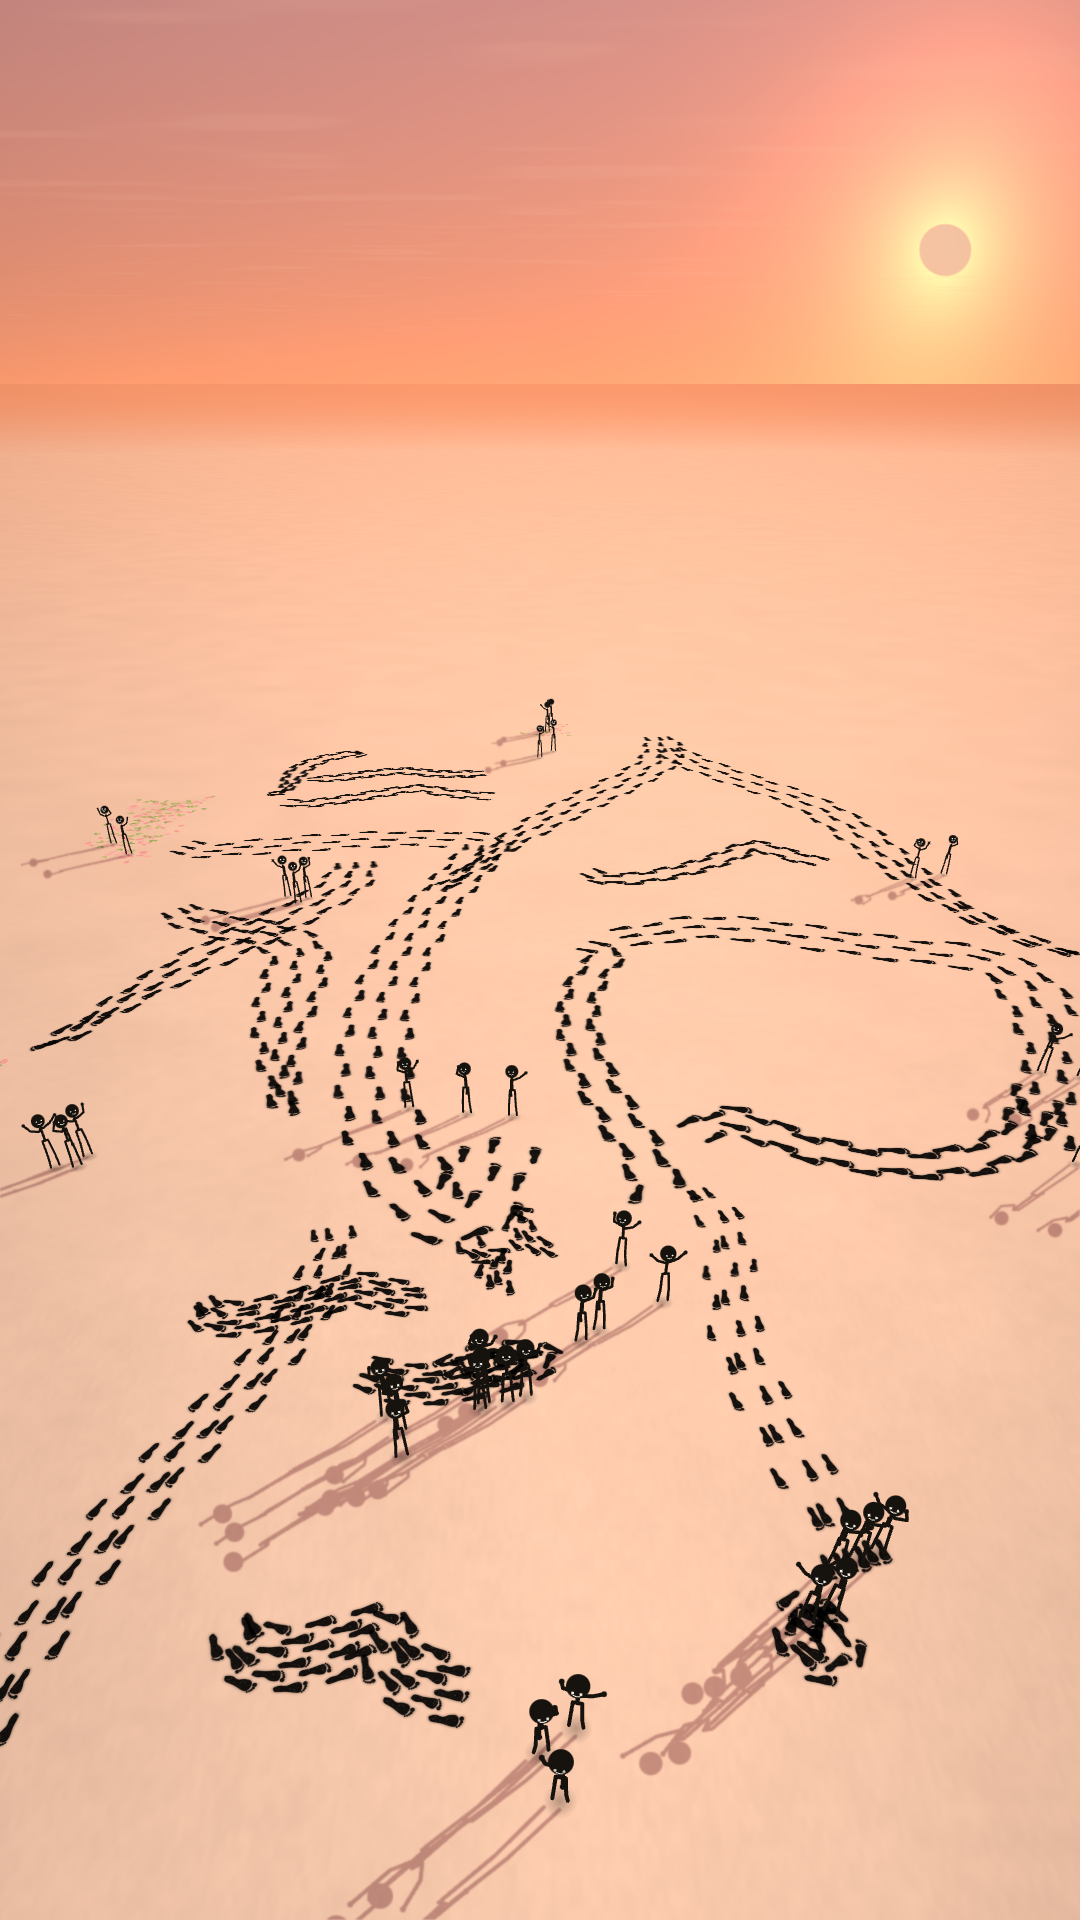
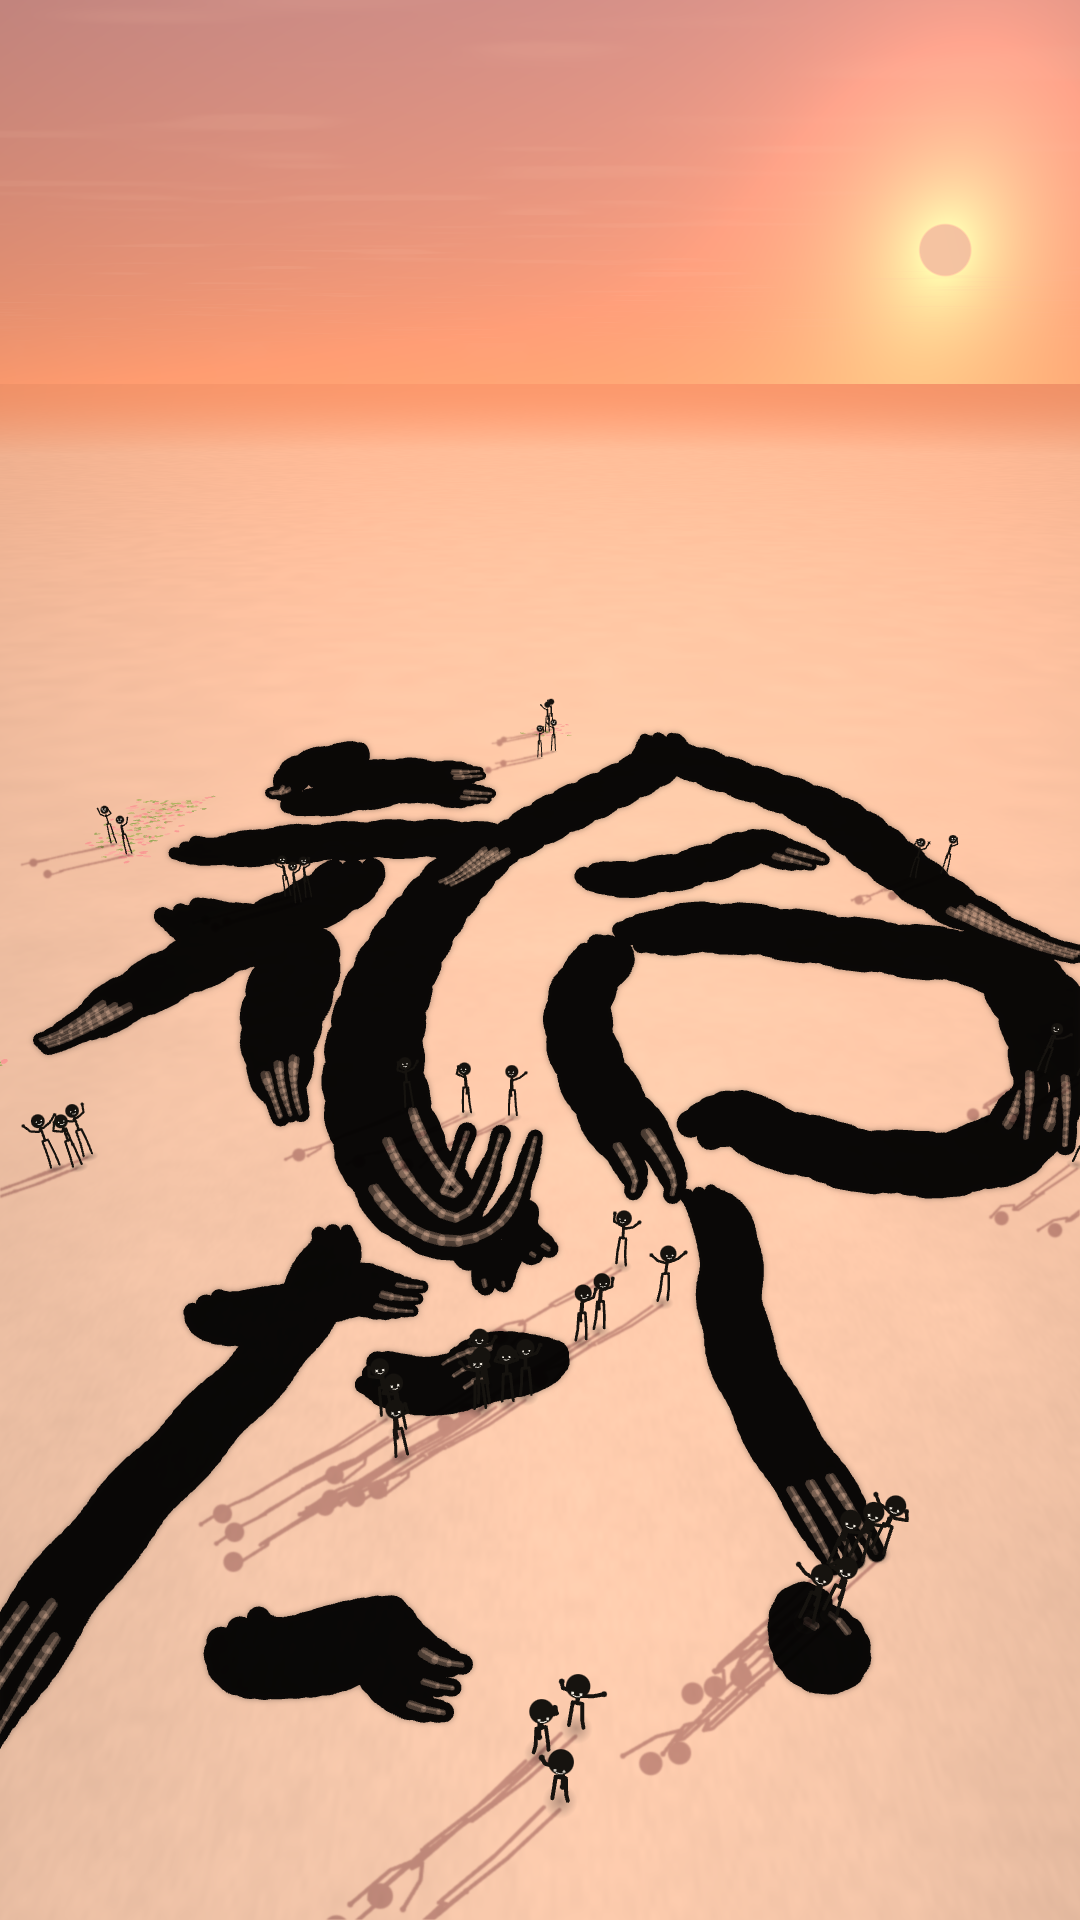
Replace footprints with scrawled ink brush trails dragged by the walkers
Claude-Session: https://claude.ai/code/session_01Hbw7THSK7o8B4Kq1iYcECg

Changed region(s): [[0.0, 0.375, 1.0, 0.9062], [0.1833, 0.8125, 0.4583, 0.9062]]

diff --git a/kibou-video/scene.js b/kibou-video/scene.js
@@ -17,6 +17,7 @@ const C = {
   laneGap: 0.62,        // spacing of walkers side by side (brush width)
   footLat: 0.14,       // half distance between left/right feet
   stride: 0.60,         // unhurried, deliberate steps         // one step
+  brush: 0.85,         // width of each walker's ink line (m)
   footLen: 0.62,      // slightly exaggerated so the ink reads as a brush stroke
   vStroke: 1.15, vTransit: 2.0, vRing: 1.2,
   tLeader: 0.45, tFinish: 21.9, tStop: 22.3,
@@ -65,7 +66,7 @@ class Path {
 
 // ---------------------------------------------------------------- globals
 let D, R, strokes, walkers, prints, scen, washes, sprites, blobSprites, ring, bounds, camMain, camTarget, maskPts;
-let gl, glc, glProg, glU, out, octx, shadowC, sctx, tmpC, tctx;
+let gl, glc, glProg, glU, out, octx, shadowC, sctx, tmpC, tctx, inkC, ictx;
 
 // ---------------------------------------------------------------- init
 window.initScene = function (data) {
@@ -73,6 +74,7 @@ window.initScene = function (data) {
   out = document.createElement('canvas'); out.width = W; out.height = H; octx = out.getContext('2d');
   shadowC = document.createElement('canvas'); shadowC.width = W; shadowC.height = H; sctx = shadowC.getContext('2d');
   tmpC = document.createElement('canvas'); tmpC.width = W; tmpC.height = H; tctx = tmpC.getContext('2d');
+  inkC = document.createElement('canvas'); inkC.width = W; inkC.height = H; ictx = inkC.getContext('2d');
   buildStrokes(); buildRing(); buildCamera(); buildWalkers(); buildPrints(); buildScenery();
   buildSprites(); initGL();
   return { strokes: strokes.length, walkers: walkers.length, prints: prints.length, scenery: scen.length, cam: camMain };
@@ -644,22 +646,48 @@ window.renderFrame = function (t, fmt = 'image/jpeg', q = 0.95) {
       for (const sg of [-1, 1]) { const a = it.rot + sg * 0.55; c.beginPath(); c.ellipse(Math.cos(a) * s * 0.6, Math.sin(a) * s * 0.6, s * 0.65, s * 0.3, a, 0, TAU); c.fill(); }
     }
   }
-  // --- footprints (ink)
-  const { Lpx, cw, ch } = sprites.meta; const NST = sprites[0].length;
-  for (const p of prints) {
-    if (p.t > t) break;
-    const P0 = proj(p.x, 0, p.z); if (P0[2] < 0.5 || !onScreen(P0, 40)) continue;
-    const fx = Math.cos(p.ang), fz = Math.sin(p.ang);
-    const Pf = proj(p.x + fx * 0.05, 0, p.z + fz * 0.05), Pr = proj(p.x + fz * 0.05, 0, p.z - fx * 0.05);
-    const Jf = [(Pf[0] - P0[0]) / 0.05, (Pf[1] - P0[1]) / 0.05], Jr = [(Pr[0] - P0[0]) / 0.05, (Pr[1] - P0[1]) / 0.05];
-    const age = t - p.t; const stg = Math.min(NST - 1, Math.floor(clamp(age / 0.7, 0, 1) * (NST - 1) + 1e-6));
-    const lenPx = Math.hypot(Jf[0], Jf[1]) * C.footLen * p.sc; const lvl = clamp(Math.floor(Math.log2(Lpx / Math.max(1, lenPx * 1.6))), 0, 4);
-    const img = sprites[p.side * 3 + p.v][stg][lvl]; const k = (C.footLen * p.sc) / Lpx * (1 << lvl);
-    // sprite x -> lateral (right), sprite y(down) -> backward
-    c.setTransform(Jr[0] * k, Jr[1] * k, -Jf[0] * k, -Jf[1] * k, P0[0], P0[1]);
-    c.globalAlpha = 0.93 * smooth(0, 0.05, age);
-    c.drawImage(img, -img.width / 2, -img.height / 2);
+  // --- ink brush trails (each walker drags a thick scrawled brush line along its stroke)
+  ictx.setTransform(1, 0, 0, 1, 0, 0); ictx.globalCompositeOperation = 'source-over'; ictx.globalAlpha = 1; ictx.clearRect(0, 0, W, H);
+  ictx.lineCap = ictx.lineJoin = 'round'; ictx.strokeStyle = '#000';
+  const trails = [];
+  for (const w of walkers) {
+    if (w.printA === undefined || t < w.tSpawn) continue;
+    const sNow = Math.min(w.sAt(t), w.printB - 0.2); if (sNow <= w.printA + 0.05) continue;
+    const k = Math.pow(strokes[w.stroke].k, 0.75), bw = C.brush * k, len = sNow - w.printA;
+    const step = Math.max(0.12, bw * 0.35), pts = [];
+    for (let s = w.printA; s <= sNow + 1e-6; s += step) pts.push(s);
+    if (pts[pts.length - 1] < sNow) pts.push(sNow);
+    const P = pts.map(s => { const q = w.path.at(s); const p = proj(q[0], 0, q[1]); const u = (s - w.printA) / Math.max(0.01, w.printB - 0.2 - w.printA);
+      // brush pressure: quick press-in, slight swell, thinning toward a flicked end
+      const pr = (0.55 + 0.45 * smooth(0, 0.08, u)) * (1 - 0.55 * smooth(0.82, 1, u)) * (0.9 + 0.12 * Math.sin(s * 2.3 + w.wavePh));
+      return [p[0], p[1], p[2], bw * pr, s]; }).filter(p => p[2] > 0.5);
+    trails.push({ w, P, bw });
   }
+  const strokeTrail = (P, wmul, off) => {
+    for (let i = 1; i < P.length; i++) {
+      const a = P[i - 1], b = P[i]; const lw = (a[3] + b[3]) / 2 * wmul * C.F * 2 / (a[2] + b[2]);
+      let dx = b[0] - a[0], dy = b[1] - a[1]; const l = Math.hypot(dx, dy) || 1; const nx = -dy / l * off * lw, ny = dx / l * off * lw;
+      ictx.lineWidth = Math.max(0.8, lw); ictx.beginPath(); ictx.moveTo(a[0] + nx, a[1] + ny); ictx.lineTo(b[0] + nx, b[1] + ny); ictx.stroke();
+    }
+  };
+  for (const tr of trails) strokeTrail(tr.P, 1, 0);
+  // dry-brush streaks (kasure) cut out of the ink
+  ictx.globalCompositeOperation = 'destination-out';
+  for (const tr of trails) {
+    const ph = tr.w.wavePh;
+    // (kept clean in the body; only the flicked tail breaks up)
+    // the tail of a fast stroke breaks up
+    const n = tr.P.length, tail = tr.P.slice(Math.floor(n * 0.82));
+    if (tail.length > 1) { ictx.globalAlpha = 0.35; strokeTrail(tail, 0.22, 0.25); strokeTrail(tail, 0.15, -0.3); }
+  }
+  ictx.globalCompositeOperation = 'source-over'; ictx.globalAlpha = 1;
+  // bleed into paper, then the ink itself
+  c.setTransform(1, 0, 0, 1, 0, 0);
+  c.globalAlpha = 0.35; c.filter = 'blur(3px)'; c.drawImage(inkC, 0, 0); c.filter = 'none';
+  c.globalAlpha = 0.94; c.drawImage(inkC, 0, 0);
+  // wet tip: a darker blob where the brush currently is
+  c.fillStyle = '#100d0b';
+  for (const tr of trails) { const p = tr.P[tr.P.length - 1]; if (!p || tr.w.sAt(t) >= tr.w.printB - 0.25) continue; c.globalAlpha = 0.5; c.beginPath(); c.arc(p[0], p[1], p[3] * 0.55 * C.F / p[2], 0, TAU); c.fill(); }
   c.globalAlpha = 1; c.setTransform(1, 0, 0, 1, 0, 0);
 
   // --- people
